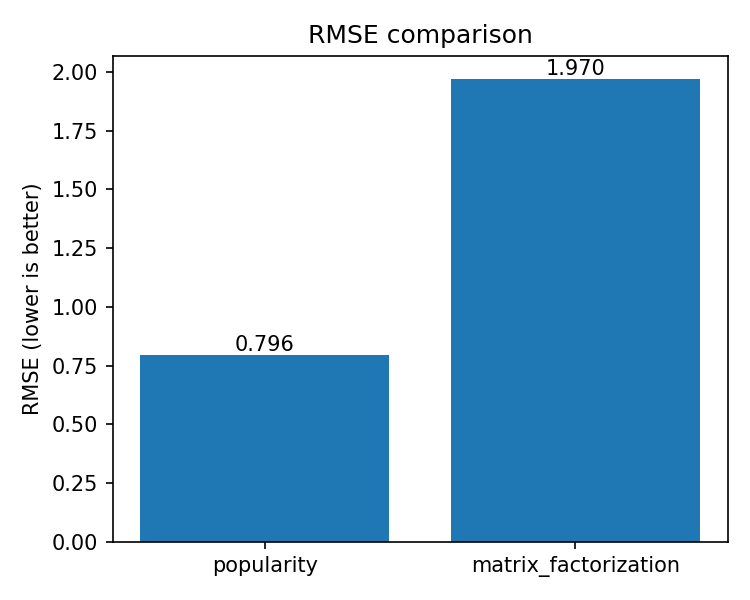
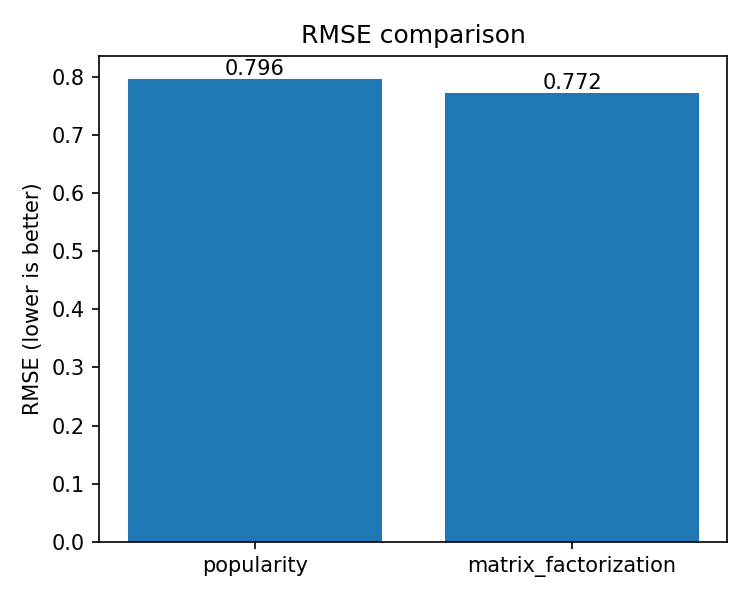
README, results: 최종 test 결과 반영

diff --git a/README.md b/README.md
@@ -21,6 +21,7 @@ src/
   preprocess.py          # 전처리, 사용자별 시간순 train/valid/test 분할, 검증(validate_splits), load_splits
   recipe_parsing.py      # 재료·태그 문자열 파싱, TF-IDF 입력 텍스트 생성
   content_based.py       # ContentBasedRecommender
+  matrix_factorization.py  # MatrixFactorization (SGD, 평균 보정)
   evaluate.py            # 평가 지표(RMSE, Precision@K, Recall@K), 인기순 기준선, 그래프 함수
 run_preprocess.py        # 전처리·분할 실행 + 자동 검증 → data/processed/
 run_eda.py               # EDA 그래프 생성 → eda/
@@ -101,12 +102,12 @@ python run_content_based.py       # 추천 예시 → results/content_based_exam
 
 공통 분할의 valid로 설정을 비교했습니다. 한 번에 하나씩만 바꿨고, 평가 사용자는 무작위 10,000명입니다(공통 평가 코드 `evaluate_topk`, 같은 seed).
 
-| 실험          | 값                        | Recall@10                   | Recall@50                     |
-| ------------- | ------------------------- | --------------------------- | ----------------------------- |
-| 입력 필드     | 재료만 / +태그 / +설명    | 0.21% / 0.26% / **0.31%**   | 0.56% / 0.77% / **0.99%**     |
-| min_df        | 1 / 2 / 5 / 20            | 모두 0.26%                  | 0.78% / 0.77% / 0.78% / 0.76% |
+| 실험          | 값                        | Recall@10                     | Recall@50                     |
+| ------------- | ------------------------- | ----------------------------- | ----------------------------- |
+| 입력 필드     | 재료만 / +태그 / +설명    | 0.21% / 0.26% / **0.31%**     | 0.56% / 0.77% / **0.99%**     |
+| min_df        | 1 / 2 / 5 / 20            | 모두 0.26%                    | 0.78% / 0.77% / 0.78% / 0.76% |
 | max_features  | None / 1000 / 3000 / 5000 | 0.26% / 0.23% / 0.28% / 0.26% | 0.77% / 0.69% / 0.77% / 0.76% |
-| 인기순 (비교) | -                         | 1.83%                       | 5.45%                         |
+| 인기순 (비교) | -                         | 1.83%                         | 5.45%                         |
 
 - 입력 필드를 더할수록 K=10, K=50 모두에서 좋아졌습니다. 그래서 설명까지 넣은 설정을 골랐습니다.
 - `min_df`, `max_features`는 결과에 거의 영향이 없어서 기본값을 그대로 둡니다. 단어 수를 4,805개(min_df=20)까지 줄여도 성능이 비슷합니다.
@@ -147,14 +148,14 @@ python run_evaluate.py --models popularity content_based   # 일부 모델만
 
 ### 결과 (test, 평가 사용자 33,041명)
 
-| 모델                      | Recall@10 | Recall@50 | Precision@10 | RMSE   |
-| ------------------------- | --------- | --------- | ------------ | ------ |
-| 인기순                    | 2.15%     | 6.03%     | 0.215%       | 0.7965 |
-| 콘텐츠 기반               | 0.39%     | 0.94%     | 0.039%       | -      |
-| 행렬 분해 (수정 전, 임시) | 0.32%     | 0.98%     | 0.032%       | 1.9698 |
+| 모델        | Recall@10 | Recall@50 | Precision@10 | RMSE   |
+| ----------- | --------- | --------- | ------------ | ------ |
+| 인기순      | 2.15%     | 6.03%     | 0.215%       | 0.7965 |
+| 콘텐츠 기반 | 0.39%     | 0.94%     | 0.039%       | -      |
+| 행렬 분해   | 0.31%     | 0.96%     | 0.031%       | 0.7721 |
 
-행렬 분해 수치는 평점 평균을 빼지 않는 현재 구현으로 낸 임시 값이며, 구현을 고친 뒤 갱신합니다.
-콘텐츠 기반 수치는 튜닝으로 고른 최종 설정(재료+태그+설명)으로 다시 낸 값입니다(`results/eval_test_popularity+content_based_topk.csv`). `eval_test_topk.csv/.png`는 행렬 분해를 고친 뒤 세 모델을 함께 다시 돌릴 때 갱신됩니다.
+행렬 분해는 평점 평균을 뺀 뒤 학습하는 최종 구현으로 낸 값입니다(`n_factors=20`, `lr=0.01`, `reg=0.02`, `n_epochs=20`, 격자 탐색 결과는 적용하지 않음).
+콘텐츠 기반 수치는 튜닝으로 고른 최종 설정(재료+태그+설명)으로 낸 값입니다. 세 모델 결과는 `results/eval_test_topk.csv/.png`, `eval_test_rmse.csv/.png`에 있습니다.
 그래프: `results/eval_test_topk.png`, `results/eval_test_rmse.png`
 
 ### 해석할 때 주의할 점
